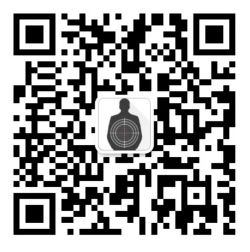
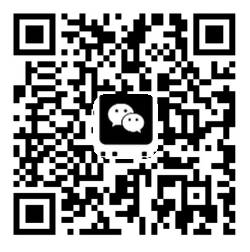
微信二维码中间头像换成微信logo

Changed region(s): [[0.364, 0.3611, 0.644, 0.6389]]

diff --git a/assets/js/site.js b/assets/js/site.js
@@ -191,7 +191,7 @@
       '<button type="button" data-wechat aria-label="添加微信">' +
         '<svg viewBox="0 0 24 24" fill="none" stroke="currentColor" stroke-width="1.7" stroke-linecap="round" stroke-linejoin="round">' + QR_ICON + '</svg>' +
         '<span class="st-tip">添加微信</span>' +
-        '<span class="qr-pop"><img src="assets/img/wechat-qr.png?v=2026110426" alt="微信二维码">' +
+        '<span class="qr-pop"><img src="assets/img/wechat-qr.png?v=2026110427" alt="微信二维码">' +
         '<b>扫码添加顾问微信</b><i>或拨打 ' + (S.company.phone || "") + '</i></span></button>' +
       '<a href="contact.html" data-msg aria-label="留言咨询">' +
         '<svg viewBox="0 0 24 24" fill="none" stroke="currentColor" stroke-width="1.7" stroke-linecap="round" stroke-linejoin="round"><path d="M21 11.5a8.4 8.4 0 01-9 8.4 9.6 9.6 0 01-3.4-.6L3 21l1.7-4.6A8.4 8.4 0 1121 11.5z"/></svg>' +

diff --git a/assets/data/site.js b/assets/data/site.js
@@ -360,7 +360,7 @@ window.SITE = {
     title: "中天技术服务 · 在线客服",        // 聊天窗标题
     sub: "工作时间内 2 小时回复",            // 标题下方小字
     mark: "中天",                            // 客服头像里的字
-    wechatImg: "assets/img/wechat-qr.png?v=2026110426",   // 微信二维码图片（换成你的：assets/img/wechat.jpg）
+    wechatImg: "assets/img/wechat-qr.png?v=2026110427",   // 微信二维码图片（换成你的：assets/img/wechat.jpg）
     /* 自动回答规则：q=快捷按钮文字；keys=客户消息命中任意一词就回复 a（支持 <b> 加粗）*/
     faqs: [
       {

diff --git a/article.html b/article.html
@@ -129,10 +129,10 @@
     </div>
   </div>
 </footer>
-<script src="assets/data/site.js?v=2026110426"></script>
+<script src="assets/data/site.js?v=2026110427"></script>
 <script src="assets/js/db-config.js?v=2026110406"></script>
 <script src="assets/js/db.js?v=2026110406"></script>
-<script src="assets/js/site.js?v=2026110426"></script>
+<script src="assets/js/site.js?v=2026110427"></script>
 <script src="assets/js/detail.js?v=2026110406"></script>
 <script src="assets/js/chat.js?v=2026110420"></script>
 </body>

diff --git a/cases.html b/cases.html
@@ -125,10 +125,10 @@
     </div>
   </div>
 </footer>
-<script src="assets/data/site.js?v=2026110426"></script>
+<script src="assets/data/site.js?v=2026110427"></script>
 <script src="assets/js/db-config.js?v=2026110406"></script>
 <script src="assets/js/db.js?v=2026110406"></script>
-<script src="assets/js/site.js?v=2026110426"></script>
+<script src="assets/js/site.js?v=2026110427"></script>
 <script src="assets/js/detail.js?v=2026110406"></script>
 <script src="assets/js/chat.js?v=2026110420"></script>
 </body>

diff --git a/service.html b/service.html
@@ -165,10 +165,10 @@
     </div>
   </div>
 </footer>
-<script src="assets/data/site.js?v=2026110426"></script>
+<script src="assets/data/site.js?v=2026110427"></script>
 <script src="assets/js/db-config.js?v=2026110406"></script>
 <script src="assets/js/db.js?v=2026110406"></script>
-<script src="assets/js/site.js?v=2026110426"></script>
+<script src="assets/js/site.js?v=2026110427"></script>
 <script src="assets/js/detail.js?v=2026110406"></script>
 <script src="assets/js/chat.js?v=2026110420"></script>
 </body>

diff --git a/about.html b/about.html
@@ -174,10 +174,10 @@
     </div>
   </div>
 </footer>
-<script src="assets/data/site.js?v=2026110426"></script>
+<script src="assets/data/site.js?v=2026110427"></script>
 <script src="assets/js/db-config.js?v=2026110406"></script>
 <script src="assets/js/db.js?v=2026110406"></script>
-<script src="assets/js/site.js?v=2026110426"></script>
+<script src="assets/js/site.js?v=2026110427"></script>
 <script src="assets/js/chat.js?v=2026110420"></script>
 </body>
 </html>

diff --git a/contact.html b/contact.html
@@ -229,10 +229,10 @@
     </div>
   </div>
 </footer>
-<script src="assets/data/site.js?v=2026110426"></script>
+<script src="assets/data/site.js?v=2026110427"></script>
 <script src="assets/js/db-config.js?v=2026110406"></script>
 <script src="assets/js/db.js?v=2026110406"></script>
-<script src="assets/js/site.js?v=2026110426"></script>
+<script src="assets/js/site.js?v=2026110427"></script>
 <script src="assets/js/chat.js?v=2026110420"></script>
 </body>
 </html>

diff --git a/news.html b/news.html
@@ -134,10 +134,10 @@
     </div>
   </div>
 </footer>
-<script src="assets/data/site.js?v=2026110426"></script>
+<script src="assets/data/site.js?v=2026110427"></script>
 <script src="assets/js/db-config.js?v=2026110406"></script>
 <script src="assets/js/db.js?v=2026110406"></script>
-<script src="assets/js/site.js?v=2026110426"></script>
+<script src="assets/js/site.js?v=2026110427"></script>
 <script src="assets/js/chat.js?v=2026110420"></script>
 </body>
 </html>

diff --git a/services.html b/services.html
@@ -161,10 +161,10 @@
     </div>
   </div>
 </footer>
-<script src="assets/data/site.js?v=2026110426"></script>
+<script src="assets/data/site.js?v=2026110427"></script>
 <script src="assets/js/db-config.js?v=2026110406"></script>
 <script src="assets/js/db.js?v=2026110406"></script>
-<script src="assets/js/site.js?v=2026110426"></script>
+<script src="assets/js/site.js?v=2026110427"></script>
 <script src="assets/js/chat.js?v=2026110420"></script>
 </body>
 </html>

diff --git a/index.html b/index.html
@@ -235,10 +235,10 @@
   </div>
 </footer>
 
-<script src="assets/data/site.js?v=2026110426"></script>
+<script src="assets/data/site.js?v=2026110427"></script>
 <script src="assets/js/db-config.js?v=2026110406"></script>
 <script src="assets/js/db.js?v=2026110406"></script>
-<script src="assets/js/site.js?v=2026110426"></script>
+<script src="assets/js/site.js?v=2026110427"></script>
 <script src="assets/js/chat.js?v=2026110420"></script>
 </body>
 </html>
